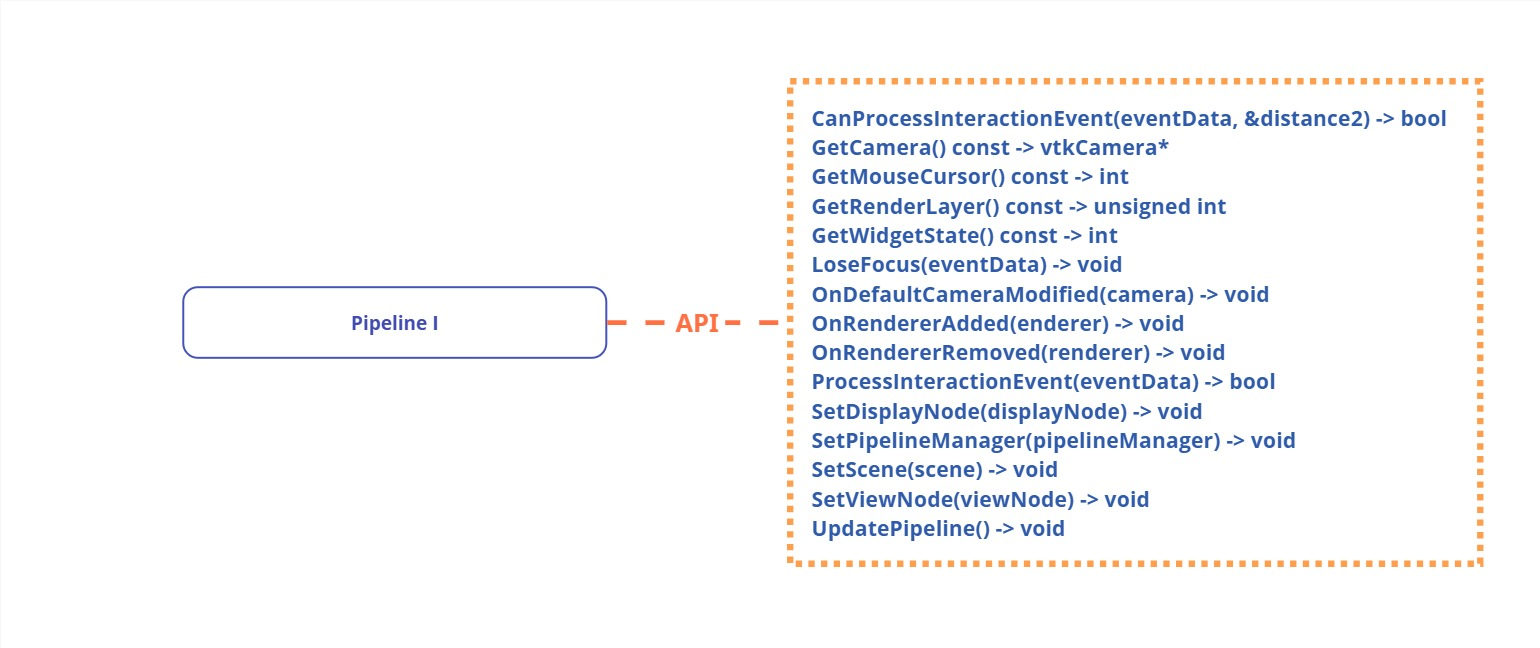
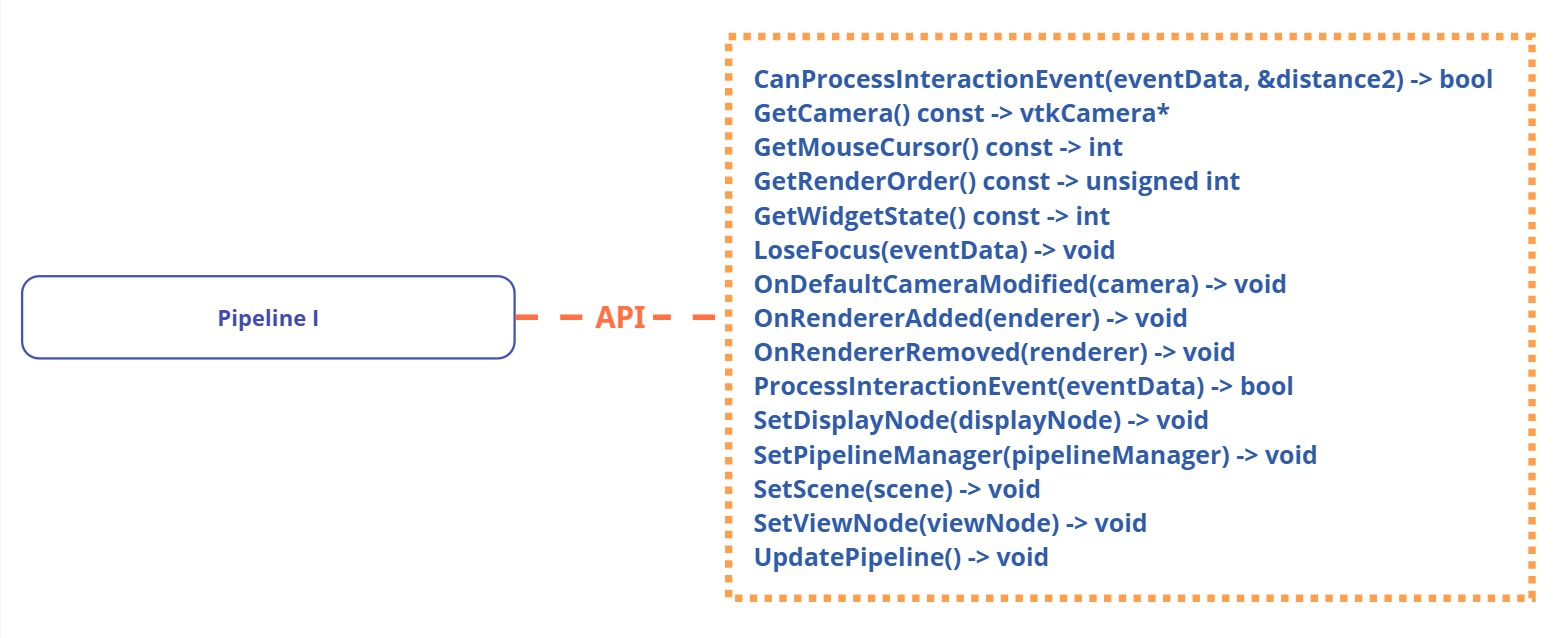
ENH: Improve API
- Rename vtkMRMLLayerDMPipeline::GetLayerRender to GetRenderOrder
- Remove redundant "Manager" string from python library
- Update module doc

diff --git a/LayerDM/Testing/Python/PipelineManagerTest.py b/LayerDM/Testing/Python/PipelineManagerTest.py
@@ -104,11 +104,11 @@ class PipelineManagerTest(ScriptedLoadableModuleTest):
         assert self.pipelineManager.GetNodePipeline(node) == mock
         return mock
 
-    def test_dispatches_process_interaction_to_higher_layer_pipeline_first(self):
-        m1 = self.triggerMockPipelineCreation(MockPipeline(layer=1))
-        m2 = self.triggerMockPipelineCreation(MockPipeline(layer=10))
-        m3 = self.triggerMockPipelineCreation(MockPipeline(layer=100))
-        m4 = self.triggerMockPipelineCreation(MockPipeline(layer=0))
+    def test_dispatches_process_interaction_to_higher_order_pipeline_first(self):
+        m1 = self.triggerMockPipelineCreation(MockPipeline(renderOrder=1))
+        m2 = self.triggerMockPipelineCreation(MockPipeline(renderOrder=10))
+        m3 = self.triggerMockPipelineCreation(MockPipeline(renderOrder=100))
+        m4 = self.triggerMockPipelineCreation(MockPipeline(renderOrder=0))
         m1.mockCanProcess.return_value = (True, 1)
         m2.mockCanProcess.return_value = (True, 1000)
         m3.mockCanProcess.return_value = (True, 2000)
@@ -133,9 +133,9 @@ class PipelineManagerTest(ScriptedLoadableModuleTest):
         m1.mockProcess.assert_not_called()
 
     def test_dispatches_process_to_max_state_first(self):
-        # Create two pipelines with same layer and disable pipeline 2 for first interaction
-        m1 = self.triggerMockPipelineCreation(MockPipeline(layer=1))
-        m2 = self.triggerMockPipelineCreation(MockPipeline(layer=1))
+        # Create two pipelines with same order and disable pipeline 2 for first interaction
+        m1 = self.triggerMockPipelineCreation(MockPipeline(renderOrder=1))
+        m2 = self.triggerMockPipelineCreation(MockPipeline(renderOrder=1))
         m1.mockCanProcess.return_value = (True, 0)
         m2.mockCanProcess.return_value = (False, 0)
         m1.mockProcess.return_value = True
@@ -161,7 +161,7 @@ class PipelineManagerTest(ScriptedLoadableModuleTest):
         assert m2.mockCanProcess.call_count == 2
 
     def test_on_lose_focus_forwards_information_of_last_with_focus(self):
-        m1 = self.triggerMockPipelineCreation(MockPipeline(layer=1))
+        m1 = self.triggerMockPipelineCreation(MockPipeline(renderOrder=1))
         m1.mockCanProcess.return_value = (True, 0)
         m1.mockProcess.return_value = True
 
@@ -176,8 +176,8 @@ class PipelineManagerTest(ScriptedLoadableModuleTest):
         m1.mockLoseFocus.assert_called_once_with(loseFocusData)
 
     def test_if_last_with_focus_cannot_process_loses_focus(self):
-        m1 = self.triggerMockPipelineCreation(MockPipeline(layer=1))
-        m2 = self.triggerMockPipelineCreation(MockPipeline(layer=10))
+        m1 = self.triggerMockPipelineCreation(MockPipeline(renderOrder=1))
+        m2 = self.triggerMockPipelineCreation(MockPipeline(renderOrder=10))
         m1.mockCanProcess.return_value = (True, 0)
         m2.mockCanProcess.return_value = (False, 0)
 
@@ -201,8 +201,8 @@ class PipelineManagerTest(ScriptedLoadableModuleTest):
         m2.mockProcess.assert_called_once()
 
     def test_if_last_with_focus_did_not_process_loses_focus(self):
-        m1 = self.triggerMockPipelineCreation(MockPipeline(layer=1))
-        m2 = self.triggerMockPipelineCreation(MockPipeline(layer=10))
+        m1 = self.triggerMockPipelineCreation(MockPipeline(renderOrder=1))
+        m2 = self.triggerMockPipelineCreation(MockPipeline(renderOrder=10))
         m1.mockCanProcess.return_value = (True, 0)
         m2.mockCanProcess.return_value = (False, 0)
 

diff --git a/LayerDM/Testing/Python/LayerManagerTest.py b/LayerDM/Testing/Python/LayerManagerTest.py
@@ -1,18 +1,18 @@
 import slicer
-from LayerDMManagerLib import vtkMRMLLayerDMScriptedPipeline
+from LayerDMLib import vtkMRMLLayerDMScriptedPipeline
 from slicer import vtkMRMLLayerDMLayerManager
 from slicer.ScriptedLoadableModule import ScriptedLoadableModuleTest
 from vtk import vtkRenderWindow, vtkRenderer, vtkCamera
 
 
 class Pipeline(vtkMRMLLayerDMScriptedPipeline):
-    def __init__(self, renderLayer: int = 0, camera: vtkCamera = None):
+    def __init__(self, renderOrder: int = 0, camera: vtkCamera = None):
         super().__init__()
-        self._renderLayer = renderLayer
+        self._renderOrder = renderOrder
         self._camera = camera
 
-    def GetRenderLayer(self) -> int:
-        return self._renderLayer
+    def GetRenderOrder(self) -> int:
+        return self._renderOrder
 
     def GetCamera(self) -> vtkCamera | None:
         return self._camera
@@ -40,7 +40,7 @@ class LayerManagerTest(ScriptedLoadableModuleTest):
     def test_at_init_has_one_distinct_default_layer(self):
         assert self.layerManager.GetNumberOfDistinctLayers() == 1
 
-    def test_adding_pipeline_on_the_default_layer_doesnt_create_layers(self):
+    def test_adding_pipeline_with_default_order_doesnt_create_layers(self):
         pipelines = [Pipeline() for _ in range(5)]
 
         for pipeline in pipelines:
@@ -48,9 +48,9 @@ class LayerManagerTest(ScriptedLoadableModuleTest):
 
         self.assertAreExpectedLayers([pipelines], expRenderLayers=[0])
 
-    def test_adding_pipelines_to_non_default_are_grouped_by_value(self):
-        layerValues = [1, 1000, 2000]
-        pipelineLists = [[Pipeline(layer) for _ in range(3)] for layer in layerValues]
+    def test_adding_pipelines_to_non_default_order_are_grouped_by_value(self):
+        orderValues = [1, 1000, 2000]
+        pipelineLists = [[Pipeline(order) for _ in range(3)] for order in orderValues]
 
         for pipelines in pipelineLists:
             for pipeline in pipelines:
@@ -59,8 +59,8 @@ class LayerManagerTest(ScriptedLoadableModuleTest):
         self.assertAreExpectedLayers(pipelineLists, expRenderLayers=[1, 2, 3])
 
     def test_removed_pipeline_layers_are_collapsed(self):
-        layerValues = [1, 1000, 2000]
-        pipelineLists = [[Pipeline(layer) for _ in range(3)] for layer in layerValues]
+        orderValues = [1, 1000, 2000]
+        pipelineLists = [[Pipeline(order) for _ in range(3)] for order in orderValues]
 
         for pipelines in pipelineLists:
             for pipeline in pipelines:

diff --git a/LayerDM/Testing/Python/InteractionLogicTest.py b/LayerDM/Testing/Python/InteractionLogicTest.py
@@ -32,7 +32,7 @@ class InteractionLogicTest(ScriptedLoadableModuleTest):
         assert self.logic.CanProcessInteractionEvent(self.event, self.distance)
         assert self.distance < 0
 
-    def test_with_same_state_and_layer_processes_min_dist_first(self):
+    def test_with_same_state_and_order_processes_min_dist_first(self):
         pipelines = []
         for i in range(5):
             pipeline = MockPipeline(canProcess=True, didProcess=True, processDistance=i)
@@ -43,10 +43,10 @@ class InteractionLogicTest(ScriptedLoadableModuleTest):
         assert self.logic.ProcessInteractionEvent(self.event)
         pipelines[0].mockProcess.assert_called_once_with(self.event)
 
-    def test_with_same_state_processes_max_layer_first(self):
+    def test_with_same_state_processes_max_order_first(self):
         pipelines = []
         for i in range(5):
-            pipeline = MockPipeline(canProcess=True, didProcess=True, layer=i)
+            pipeline = MockPipeline(canProcess=True, didProcess=True, renderOrder=i)
             pipelines.append(pipeline)
             self.logic.AddPipeline(pipeline)
 
@@ -95,7 +95,7 @@ class InteractionLogicTest(ScriptedLoadableModuleTest):
         assert self.logic.CanProcessInteractionEvent(self.event, self.distance)
         assert self.logic.ProcessInteractionEvent(self.event)
 
-        p2 = MockPipeline(canProcess=True, didProcess=True, layer=10)
+        p2 = MockPipeline(canProcess=True, didProcess=True, renderOrder=10)
         self.logic.AddPipeline(p2)
 
         assert self.logic.CanProcessInteractionEvent(self.event, self.distance)

diff --git a/LayerDM/Testing/Python/MockPipeline.py b/LayerDM/Testing/Python/MockPipeline.py
@@ -2,7 +2,7 @@ import sys
 from typing import Any
 from unittest.mock import MagicMock
 
-from LayerDMManagerLib import vtkMRMLLayerDMScriptedPipeline
+from LayerDMLib import vtkMRMLLayerDMScriptedPipeline
 from slicer import (
     vtkMRMLAbstractViewNode,
     vtkMRMLInteractionEventData,
@@ -21,7 +21,7 @@ class MockPipeline(vtkMRMLLayerDMScriptedPipeline):
 
     def __init__(
         self,
-        layer=0,
+        renderOrder=0,
         widgetState=0,
         canProcess=False,
         processDistance=sys.float_info.max,
@@ -32,7 +32,7 @@ class MockPipeline(vtkMRMLLayerDMScriptedPipeline):
         self.mockCanProcess = MagicMock(return_value=(canProcess, processDistance))
         self.mockGetCamera = MagicMock(return_value=None)
         self.mockGetMouse = MagicMock(return_value=mouseCursor)
-        self.mockGetRenderLayer = MagicMock(return_value=layer)
+        self.mockGetRenderOrder = MagicMock(return_value=renderOrder)
         self.mockGetWidgetState = MagicMock(return_value=widgetState)
         self.mockLoseFocus = MagicMock()
         self.mockOnDefaultCameraModified = MagicMock()
@@ -55,8 +55,8 @@ class MockPipeline(vtkMRMLLayerDMScriptedPipeline):
     def GetMouseCursor(self) -> int:
         return self.mockGetMouse()
 
-    def GetRenderLayer(self) -> int:
-        return self.mockGetRenderLayer()
+    def GetRenderOrder(self) -> int:
+        return self.mockGetRenderOrder()
 
     def GetWidgetState(self) -> int:
         return self.mockGetWidgetState()

diff --git a/LayerDM/MRMLDM/vtkMRMLLayerDMLayerManager.h b/LayerDM/MRMLDM/vtkMRMLLayerDMLayerManager.h
@@ -20,16 +20,16 @@ class vtkRenderer;
 class vtkCamera;
 
 /// \brief Responsible for adding and removing renderer layers to a vtkRenderWindow depending on the
-/// display pipeline preferred layer value.
+/// display pipeline preferred render order value.
 ///
-/// Display pipeline layer values are arbitrary unsigned int. This class will create and set the actual
+/// Display pipeline order values are arbitrary unsigned int. This class will create and set the actual
 /// Renderer layers so that their ordering is consistent with expected VTK behavior.
 ///
 /// Renderer 0 is left unchanged by the class and is expected to already exist in the render window.
 ///
 /// When pipelines are added / removed, renderers are created or deleted, and renderer layers are optimized
-/// depending on the pipelines' preferred layer number.
-/// Layer number is read-only during update and is expected to be static per pipeline.
+/// depending on the pipelines' preferred render order number.
+/// Order number is read-only during update and is expected to be static per pipeline.
 class VTK_SLICER_LAYERDM_MODULE_MRMLDISPLAYABLEMANAGER_EXPORT vtkMRMLLayerDMLayerManager : public vtkObject
 {
 public:

diff --git a/LayerDM/MRMLDM/vtkMRMLLayerDMPipelineI.h b/LayerDM/MRMLDM/vtkMRMLLayerDMPipelineI.h
@@ -52,11 +52,14 @@ public:
   /// This value is only used if the pipeline actually processes an event and is ignore otherwise.
   virtual int GetMouseCursor() const;
 
-  /// Arbitrary render layer number where the pipeline wants to be displayed.
-  /// Return 0 to be at the default renderer (main 3D Slicer renderer)
-  /// Return larger values to be rendered in overlay.
+  /// Arbitrary render order number where the pipeline wants to be displayed.
+  /// Return 0 to be at the default order (main 3D Slicer pipelines)
+  /// Return larger values to be rendered on top of pipelines with lower render orders.
+  /// Order number is read-only during update and is expected to be static per pipeline.
+  ///
+  /// \sa vtkMRMLLayerDMLayerManager
   /// \return default = 0
-  virtual unsigned int GetRenderLayer() const;
+  virtual unsigned int GetRenderOrder() const;
 
   /// Current widget state of the pipeline.
   /// \return default = WidgetStateIdle

diff --git a/LayerDM/MRMLDM/Python/vtkMRMLLayerDMScriptedPipeline.py b/LayerDM/MRMLDM/Python/vtkMRMLLayerDMScriptedPipeline.py
@@ -63,11 +63,13 @@ class vtkMRMLLayerDMScriptedPipeline(vtkMRMLLayerDMScriptedPipelineBridge):
         """
         return 0
 
-    def GetRenderLayer(self) -> int:
+    def GetRenderOrder(self) -> int:
         """
-        Arbitrary render layer number where the pipeline wants to be displayed.
-        Return 0 to be at the default renderer (main 3D Slicer renderer)
-        Return larger values to be rendered in overlay.
+        Arbitrary render order number where the pipeline wants to be displayed.
+        Return 0 to be at the default order (main 3D Slicer pipelines)
+        Return larger values to be rendered on top of pipelines with lower render orders.
+
+        See also: vtkMRMLLayerDMLayerManager
         :return: default = 0
         """
         return 0

diff --git a/LayerDM/MRMLDM/vtkMRMLLayerDMScriptedPipelineBridge.h b/LayerDM/MRMLDM/vtkMRMLLayerDMScriptedPipelineBridge.h
@@ -23,7 +23,7 @@ public:
   bool CanProcessInteractionEvent(vtkMRMLInteractionEventData* eventData, double& distance2) override;
   vtkCamera* GetCamera() const override;
   int GetMouseCursor() const override;
-  unsigned int GetRenderLayer() const override;
+  unsigned int GetRenderOrder() const override;
   int GetWidgetState() const override;
   void LoseFocus(vtkMRMLInteractionEventData* eventData) override;
   void OnDefaultCameraModified(vtkCamera* camera) override;

diff --git a/LayerDM/Testing/Python/DisplayableManagerTest.py b/LayerDM/Testing/Python/DisplayableManagerTest.py
@@ -1,5 +1,5 @@
 import slicer
-from LayerDMManagerLib import vtkMRMLLayerDMScriptedPipeline
+from LayerDMLib import vtkMRMLLayerDMScriptedPipeline
 from slicer import (
     vtkMRMLLayerDMPipelineFactory,
     vtkMRMLLayerDMPipelineManager,

diff --git a/README.md b/README.md
@@ -109,7 +109,7 @@ New() -> vtkMRMLLayerDMPipelineI*
 CanProcessInteractionEvent(vtkMRMLInteractionEventData* eventData, double& distance2) -> bool
 GetCamera() const -> vtkCamera*
 GetMouseCursor() const -> int
-GetRenderLayer() const -> unsigned int
+GetRenderOrder() const -> unsigned int
 GetWidgetState() const -> int
 LoseFocus(vtkMRMLInteractionEventData* eventData) -> void
 OnDefaultCameraModified(vtkCamera* camera) -> void
@@ -142,7 +142,7 @@ OnUpdate(vtkObject* obj, unsigned long eventId, void* callData) -> void
 ## Python Integration
 
 - Python pipelines can be created using
-  `from LayerDMManagerLib.vtkMRMLLayerDMScriptedPipeline import vtkMRMLLayerDMScriptedPipeline`
+  `from LayerDMLib.vtkMRMLLayerDMScriptedPipeline import vtkMRMLLayerDMScriptedPipeline`
 - Scripted creators allow dynamic injection of pipeline logic
 - Ideal for prototyping and rapid development
 
